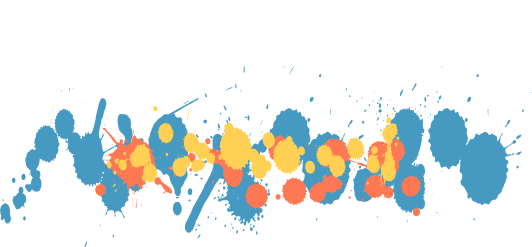
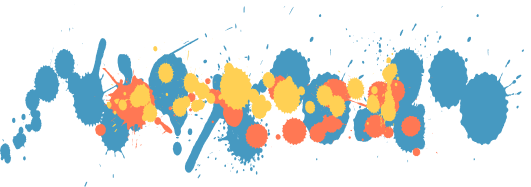
Reverted back to seperate headshot and splatter images. Adjusted padding, margins, and positions. Adjusted breakpoints.

diff --git a/public_html/styles/style.css b/public_html/styles/style.css
@@ -34,14 +34,13 @@ nav {
   background-attachment: fixed;
 }
 
-/* #splatter {
+#headshotrow {
   background-image: url("../images/splatter.png");
-  /* width: 100vw; */
-  background-position: top;
+  background-position: top 5em center;
   background-repeat: no-repeat;
-  background-size: 75vw auto;
+  background-size: contain;
   background-attachment: fixed;
-} */
+}
 
 /* Carousel Controls */
 .carousel-control-prev-icon {
@@ -88,7 +87,7 @@ nav {
 /*rgba(0, 0, 0, 0.21) #2f647d*/
 
 /* Headshot shadows */
-/* #headshot
+#headshot
 {
     position:relative;
     -webkit-box-shadow:0 10px 4px rgba(0, 0, 0, 0.3), 0 -10px 40px rgba(0, 0, 0, 0.1) inset;
@@ -119,7 +118,7 @@ nav {
         -ms-transform:skew(8deg) rotate(3deg);
          -o-transform:skew(8deg) rotate(3deg);
             transform:skew(8deg) rotate(3deg);
-} */
+}
 
 /* Nametag shadows */
 #nametag

diff --git a/public_html/index.php b/public_html/index.php
@@ -73,17 +73,15 @@
 		<!-- Header -->
 
 		<div class="container-fluid">
-			<div class="row-fluid" id="headshotrow">
-				<div class="col-lg-4 col-md-6 col-sm-8 col-xs-10 mx-auto mt-5 pt-5">
-					<img id="headshot" class="img-fluid" src="images/splatter2.png" alt="William Isengard Headshot With Splatter Background">
-				</div>
-			</div>
-			<div class="row-fluid" id="nametagrow">
-				<div class="col-lg-2 col-md-4 col-sm-6 col-xs-7 mx-auto mt-1 py-5">
+			<div class="row position-top" id="headshotrow">
+				<div class="col-lg-3 col-md-4 col-sm-5 col-6 mx-auto mt-5 py-5">
+					<img id="headshot" class="img-fluid rounded-circle" src="images/headshot.jpg" alt="William Isengard Headshot">
+						<br>
+						<br>
 					<img id="nametag" class="img-fluid rounded d-block" src="images/nametag.png" alt="William Isengard Fullstack Web Developr">
 				</div>
 			</div>
-		</div>
+			</div>
 
 		<!--Who Am I? Section -->
 
@@ -136,7 +134,7 @@
 <div class="container-fluid">
 		<section id="whatDoIDoSection">
 			<div class="row pb-lg-5 pb-md-4 pb-sm-2 pt-5 text-muted">
-				<div class="col-lg-6 col-md-8 col-sm-10 col-xs-12 mx-auto p-lg-4 p-md-3 p-sm-2 p-xs-1">
+				<div class="col-lg-6 col-md-8 col-sm-10 col-12 mx-auto p-lg-4 p-md-3 p-sm-2 p-1">
 					<h1>What Do I Do?</h1>
 					<div class="info">
 						<p>My focus is programming modern, in-demand software, websites, and apps. I am experienced in the LAMP stack, PHP, HTML, CSS, JavaScript, Git, Object Oriented Programming, etc.</p>
@@ -145,7 +143,7 @@
 						<!--Image Carousel -->
 
 						<div class="row">
-							<div class="col-md-6 col-sm-5 col-xs-4 mx-auto p-ld-4 p-md-3 p-sm-2 p-xs-2">
+							<div class="col-md-6 col-sm-5 col-4 mx-auto p-ld-4 p-md-3 p-sm-2 p-2">
 
 								<!--Carousel Wrapper-->
 
@@ -204,7 +202,7 @@
 
 		<section id="canIHelpYouSection">
 			<div class="row py-5 text-white" id="canIHelpYouRow">
-				<div class="col-lg-6 col-md-8 col-sm-10 col-xs-11 mx-auto p-4 p-md-3 p-sm-2">
+				<div class="col-lg-6 col-md-8 col-sm-10 col-11 mx-auto p-4 p-md-3 p-sm-2">
 					<h1>Can I Help You?</h1>
 					<div class="info">
 						<p>I am excited for opportunities to help grow a business and continue to expand my developer skillset.</p>
@@ -271,27 +269,27 @@
 <div class="container-fluid">
 		<section id="howCanIBeReachedSection">
 			<div class="row py-5 py-md-3 py-sm-0 text-muted">
-				<div class="col-lg-6 col-md-8 col-sm-10 col-xs-11 mx-auto p-4 p-md-3 p-sm-2 p-xs-1">
+				<div class="col-lg-6 col-md-8 col-sm-10 col-11 mx-auto p-4 p-md-3 p-sm-2 p-1">
 					<h1 id="howCanIBeReached">How Can I Be Reached?</h1>
 					<div class="info">
 						<p>I can be reached via the channels below. Give me a ring and I will get back to you right away. Thanks!</p>
 						<div class="row">
-							<div class="col-md-2 col-sm-3 col-xs-2 mx-auto py-md-2 py-sm-3">
+							<div class="col-md-2 col-sm-3 col-2 mx-auto py-md-2 py-sm-3">
 									<a href="">
 										<img class="img-fluid d-block" src="images/email.svg" alt="Email Contact" />
 									</a>
 							</div>
-							<div class="col-md-2 col-sm-3 col-xs-2 mx-auto py-md-2 py-sm-3">
+							<div class="col-md-2 col-sm-3 col-2 mx-auto py-md-2 py-sm-3">
 									<a href="">
 										<img class="img-fluid d-block" src="images/phone.svg" alt="Phone Contact" />
 									</a>
 							</div>
-							<div class="col-md-2 col-sm-3 col-xs-2 mx-auto py-md-2 py-sm-3">
+							<div class="col-md-2 col-sm-3 col-2 mx-auto py-md-2 py-sm-3">
 									<a href="https://www.linkedin.com/in/william-isengard/" target=”_blank”>
 										<img class="img-fluid d-block" src="images/linkedin.svg" alt="LinkedIn Page" />
 									</a>
 							</div>
-							<div class="col-md-2 col-sm-3 col-xs-2 mx-auto py-md-2 py-sm-3">
+							<div class="col-md-2 col-sm-3 col-2 mx-auto py-md-2 py-sm-3">
 									<a href="https://github.com/WilliamIsengard/" target=”_blank”>
 										<img class="img-fluid d-block" src="images/github.svg" alt="Github Repository" />
 									</a>
